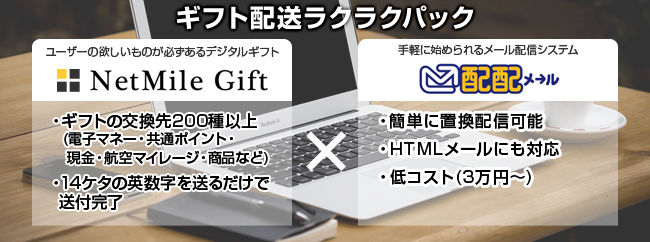
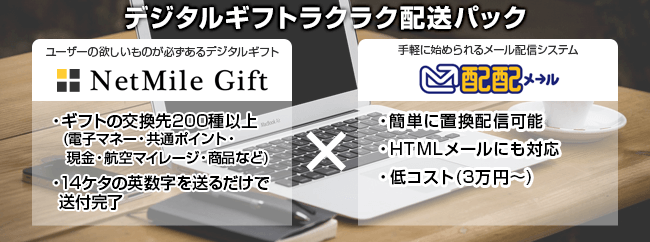
文言修正

diff --git a/service/point_digitalgift.html b/service/point_digitalgift.html
@@ -270,7 +270,7 @@
                           </div>
 
                           <h4 class="bizMerit DigitalMeritAreaTitle">メール配信パッケージ</h4>
-                          <h2 class="serviceAreaDetail_title">メール配信ツールがないお客様は<br>「ギフトラクラク配送パック」がオススメ！</h2>
+                          <h2 class="serviceAreaDetail_title">メール配信ツールがないお客様は<br>「デジタルギフトラクラク配送パック」がオススメ！</h2>
                           <div class="DigitalMeritAreaConclusion">
                             <div class="DigitalMeritAreaConclusion_inner">
                               <div class="serviceAreaDetail_read">株式会社ラクスが提供する配配メールとのパッケージ商品もご利用いただけます。<br>
@@ -386,7 +386,7 @@
                         <section>
                           <ul class="DigitalIntroductionArea">
                             <li>
-                              <h4 class="DigitalIntroductionAreaTitle">ラクラク配送パックご利用の3STEP</h4>
+                              <h4 class="DigitalIntroductionAreaTitle">デジタルギフトラクラク配送パックご利用の3STEP</h4>
                               <ol>
                                 <li>
                                   <p class="DigitalIntroductionAreaStep">STEP1</p>
